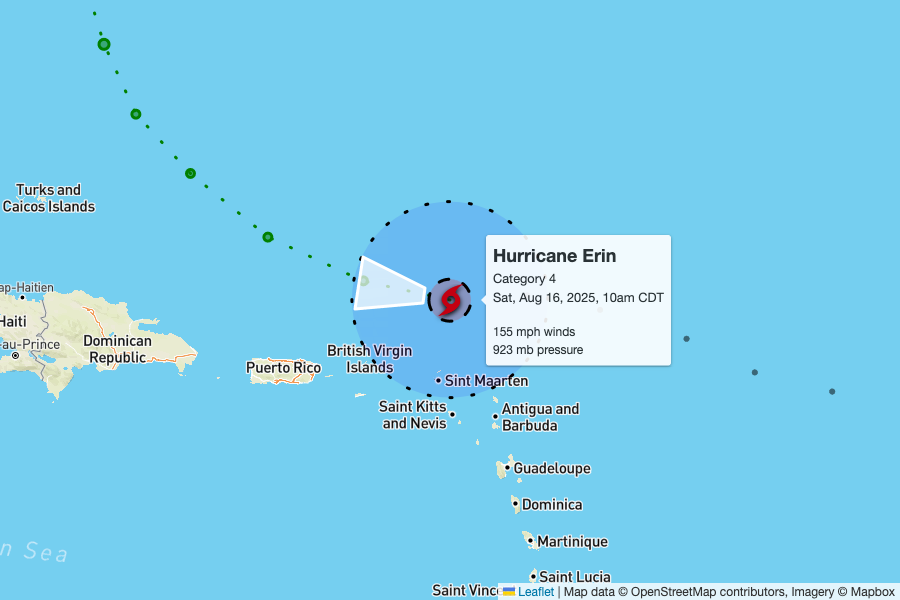
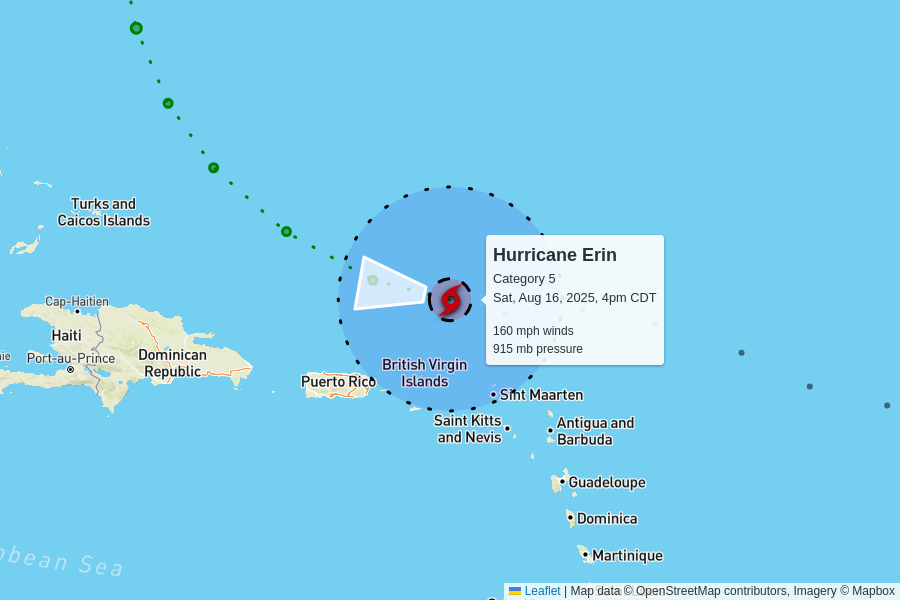
automatic update

diff --git a/docs/index.html b/docs/index.html
@@ -99,10 +99,10 @@
 
     <table>
       <tr>
-        <td colspan="6" class="storm category-4" >
+        <td colspan="6" class="storm category-5" >
           <h2>
-            Hurricane Erin - Category 4
-            <p class="updated">last updated <span data-time>2025-08-16T15:00:00.000Z</span></p>
+            Hurricane Erin - Category 5
+            <p class="updated">last updated <span data-time>2025-08-16T21:00:00.000Z</span></p>
           </h2>
         </td>
       </tr>
@@ -117,10 +117,10 @@
       </tr>
       <tr>
         <td class="spacer"></td>
-        <td>155 mph<br>+35 mph since last update</td>
-        <td>923 mb<br>-32 mb since last update</td>
+        <td>160 mph<br>+5 mph since last update</td>
+        <td>915 mb<br>-8 mb since last update</td>
         <td>
-          17 mph to the west
+          15 mph to the west
           <br/>
           <span style="display: inline-block; font-size: 1.5em; transform: rotate(280deg);">↑</span>
         </td>
